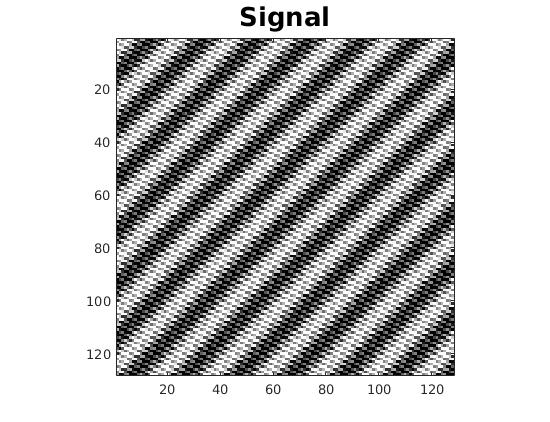
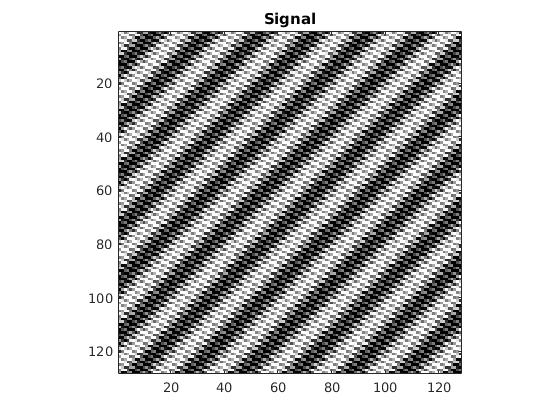
Update new figures

diff --git a/conv/conv_experiment.m b/conv/conv_experiment.m
@@ -7,8 +7,8 @@ fs = round(L./x(end));
 addpath('~/MEGA/Research/EMD/EMD_PDE/tftb/mfiles');
 
 
-% %Three sinusoids
-% signal = 0.5*cos(2*pi*x) + 2*cos(0.1*pi*x) + 0.8*cos(0.5*pi*x);
+%Three sinusoids
+signal = 0.5*cos(20*pi*x) + 2*cos(8*pi*x) + 0.8*cos(0.5*pi*x);
 
 % ---------------------------------
 
@@ -47,7 +47,7 @@ addpath('~/MEGA/Research/EMD/EMD_PDE/tftb/mfiles');
 
 % ---------------------------------
 
-% %ECG data
+%ECG data
 % load('../data/ECG-data/ECG-data');
 % signal = sig_sample_1';
 % L = length(signal);
@@ -82,7 +82,7 @@ addpath('~/MEGA/Research/EMD/EMD_PDE/tftb/mfiles');
 
 % -------------------------------------
 
-% % Music Signal
+% Music Signal
 % load('../data/music-data/piano_sample');
 % signal = piano_sample';
 
@@ -101,51 +101,52 @@ addpath('~/MEGA/Research/EMD/EMD_PDE/tftb/mfiles');
 
 
 
-% -------------------------------------
-% Triangular + sinusoid waveform (nonlinear case)
+% % -------------------------------------
+% % Triangular + sinusoid waveform (nonlinear case)
 
-N = 1024;% # of data samples
-x = 1:N;
+% N = 1024;% # of data samples
+% x = 1:N;
 
-% triangular waveform 1
-p1 = fix(N/6);% period
-x1 = triangular_signal(N,p1);
+% % triangular waveform 1
+% p1 = fix(N/6);% period
+% x1 = triangular_signal(N,p1);
 
-% tone
-f0 = 0.03;% frequency
-x2 = real(fmconst(N,f0));
+% % tone
+% f0 = 0.03;% frequency
+% x2 = real(fmconst(N,f0));
 
-% triangular waveform 2
-p3 = 5;% period
-x3 = triangular_signal(N,p3);
+% % triangular waveform 2
+% p3 = 5;% period
+% x3 = triangular_signal(N,p3);
 
-signal = x1 + 0.4*x2' + .4*x3;
+% signal = x1 + 0.4*x2' + .4*x3;
 
 
-k = 1./(12^2*pi^2);
-T = 50;
+k = 1./(6^2*pi^2);
+T = 20;
 % T = 15;
-iter_num = 200;
+iter_num = 500;
 IMF_num = 3;
 
-[IMFs, residual] = conv_emd(x, signal, k, T, iter_num, IMF_num, 0, 1, 0.01);
+[IMFs, residual] = conv_emd(x, signal, k, T, iter_num, IMF_num, 1, 1, 0.01);
 
 IMF_num = size(IMFs, 1);
 
 % Signal Plot
 figure;
 subplot(IMF_num+2,1,1);
-plot(x, signal, 'LineWidth', 2);
+plot(x, signal, 'LineWidth', 1.5);
 lgd1 = legend('signal');
 lgd1.FontSize = 15;
 
 for i = 1:IMF_num
     subplot(IMF_num+2,1,i+1)
-    plot(x, IMFs(i,:), 'LineWidth', 2)
+    plot(x, IMFs(i,:), 'LineWidth', 1.5)
 end
 
 subplot(IMF_num+2,1,IMF_num+2);
-plot(x, residual, 'LineWidth', 2);
+plot(x, residual, 'LineWidth', 1.5);
+ylim([-1,1])
 lgd2 = legend('residual');
 lgd2.FontSize = 15;
 
@@ -157,4 +158,4 @@ myIMF = [IMFs; residual];
 plot_hhs(myIMF);
 
 % Plot Fourier Spectrums
-% plot_fft(signal);
+plot_fft(signal);

diff --git a/2d_conv/plot_EMD_fs.m b/2d_conv/plot_EMD_fs.m
@@ -3,57 +3,60 @@ IMF_num = size(IMFs,3)
 % Window
 w = hamming(size(signal, 1));
 signal = double(signal);
-log_scale = 1;
-figure;
-subplot(121)
+log_scale = 0;
+figure();
 image(signal);
+title('Signal')
 % mesh(signal);
-% axis square;
+axis square;
 colormap(gray(256));
-subplot(122)
+figure();
 F = fft2(signal.*(w*w'));
 if log_scale
     imagesc(log(abs(fftshift(F))));
+    title('Fourier Spectrum (log scale) of signal');
 else
     imagesc(abs(fftshift(F)));
+    title('Fourier Spectrum of signal');
 end
-% axis square;
-suptitle('Signal');
+axis square;
 
 for i = 1:IMF_num
     figure();
-    subplot(121);
     image(IMFs(:,:,i)+126);
-%     axis square;
+    axis square;
     % mesh(IMFs(:,:,i));
     colormap(gray(256));
-    subplot(122);
+    title(sprintf('IMF %d', i))
+    figure();
     F = fft2(IMFs(:,:,i).*(w*w'));
     if log_scale
         imagesc(log(abs(fftshift(F))));
+        title(sprintf('Fourier Spectrum (log scale) of IMF %d', i))
     else
         imagesc(abs(fftshift(F)));
+        title(sprintf('Fourier Spectrum of IMF %d', i))
     end
-%     axis square;
-    suptitle(sprintf('IMF %d', i))
+    axis square;
 
 end
 
 figure();
-subplot(121)
 image(residual);
-% axis square;
+axis square;
 % mesh(residual);
 colormap(gray(256));
-subplot(122)
+title('Residual')
+figure();
 F = fft2(residual.*(w*w'));
 if log_scale
     imagesc(log(abs(fftshift(F))));
+    title('Fourier Spectrum (log scale) of residual')
 else
     imagesc(abs(fftshift(F)));
+    title('Fourier Spectrum of residual')
 end
-% axis square;
+axis square;
 
-suptitle('Residual')
 
 end 

diff --git a/conv/conv_emd.m b/conv/conv_emd.m
@@ -112,7 +112,7 @@ function [IMFs, residual] = conv_emd(x, signal, k, T, iter_num, max_IMF, stop_cr
             if stop_criterion == 1 || stop_criterion == 2
                 % mean envelope stop criterion
                 if (rms(mean_env)/rms(r)).^2 < threshold
-                    fprintf('Meet mean envelope stop criterion stop\n');
+                    % fprintf('Meet mean envelope stop criterion stop\n');
                     break;
                 end
                 % Extremum stop criterion
@@ -132,10 +132,10 @@ function [IMFs, residual] = conv_emd(x, signal, k, T, iter_num, max_IMF, stop_cr
         % fprintf('--------------------------\n');
  
         % IMF stop creterion
-        if rms(IMF) < threshold
-            % fprintf('Meet IMF stop criterion stop\n');
-            break;
-        end
+        % if rms(IMF) < threshold
+        %     fprintf('Meet IMF stop criterion stop\n');
+        %     break;
+        % end
 
     end
 

diff --git a/2d_conv/conv_emd.m b/2d_conv/conv_emd.m
@@ -111,10 +111,10 @@ for j = 1:max_IMF
     end
     
     for i = 1:iter_num
-        if mod(i,20) == 0
-            fprintf(' %i th iterations\n', i);
+        % if mod(i,20) == 0
+            % fprintf(' %i th iterations\n', i);
 %             fprintf(' %f \n', rms(mean_env)./rms(r));
-        end
+        % end
         mean_env = conv_mean_env(r, k, T);
         IMF = r-mean_env;
 
@@ -122,7 +122,7 @@ for j = 1:max_IMF
         if stop_criterion == 1 || stop_criterion == 2
             % mean envelope stop criterion
             if ( rms(rms(mean_env))./ rms(rms(r)) ) < threshold
-                fprintf('Meet mean envelope stop criterion stop\n');
+                % fprintf('Meet mean envelope stop criterion stop\n');
                 break;
             end
             % % Extremum stop criterion

diff --git a/2d_conv/conv_experiment.m b/2d_conv/conv_experiment.m
@@ -1,11 +1,11 @@
 % signal = imread('./img/lena_gray.tiff');
 % signal = imread('./img/moon.tiff');
-signal = imread('./img/lena512color.tiff');
+% signal = imread('./img/lena512color.tiff');
 % signal = imread('./img/fishingboat.jpg');
 % signal = imread('./img/brickwall.bmp');
 % signal = imread('./img/texture85.gif');
 % signal = imread('./img/CSF.jpg');
-% signal = imread('./img/Raffia.tiff');
+signal = imread('./img/Raffia.tiff');
 % signal = rgb2gray(signal);
 
 signal = signal(:,:,1);

diff --git a/2d_conv/computation_comparison.m b/2d_conv/computation_comparison.m
@@ -11,9 +11,9 @@ k = 1./2*(0.1*pi)^2;
 T = 20;
 iter_num = 100;
 
-for i = 1:4
+for i = 1:8
     IMF_num = i;
-    fprintf('%d IMF: For Diffusion-based EMD, the computation time is: \n', i);
+    fprintf('%d IMF: For Diffusion-based EMD (conv), the computation time is: \n', i);
     tic
     [IMFs, residual] = conv_emd(signal, k, T, iter_num, IMF_num, 0, 0, 0.01);
     toc

diff --git a/conv/plot_hhs.m b/conv/plot_hhs.m
@@ -26,7 +26,8 @@ function plot_hhs(myIMF)
     % h_f_A = h_f_A ./ length(tt);
     figure;
     plot(h_f, h_f_A, 'LineWidth', 2);
-    xlim([0 0.2])
+    % xlim([0 0.2])
+    xlim([0 0.5])
     xlabel('Normalized Frequency', 'FontSize', 15);
     ylabel('Amplitude', 'FontSize', 15);
     title('Hilbert Spectrum','FontSize', 15);

diff --git a/conv/plot_fft.m b/conv/plot_fft.m
@@ -19,7 +19,7 @@ function plot_fft(signal)
     len = floor(length(fftSignal)./2);
     norm_f = linspace(0, 0.5, len);
     figure;
-    plot(norm_f, abs(fftSignal(1:len)))
+    plot(norm_f, abs(fftSignal(1:len)),'LineWidth', 2)
     title('Fourier analysis');
     xlabel('Frequency');
     ylabel('Amplitude');
